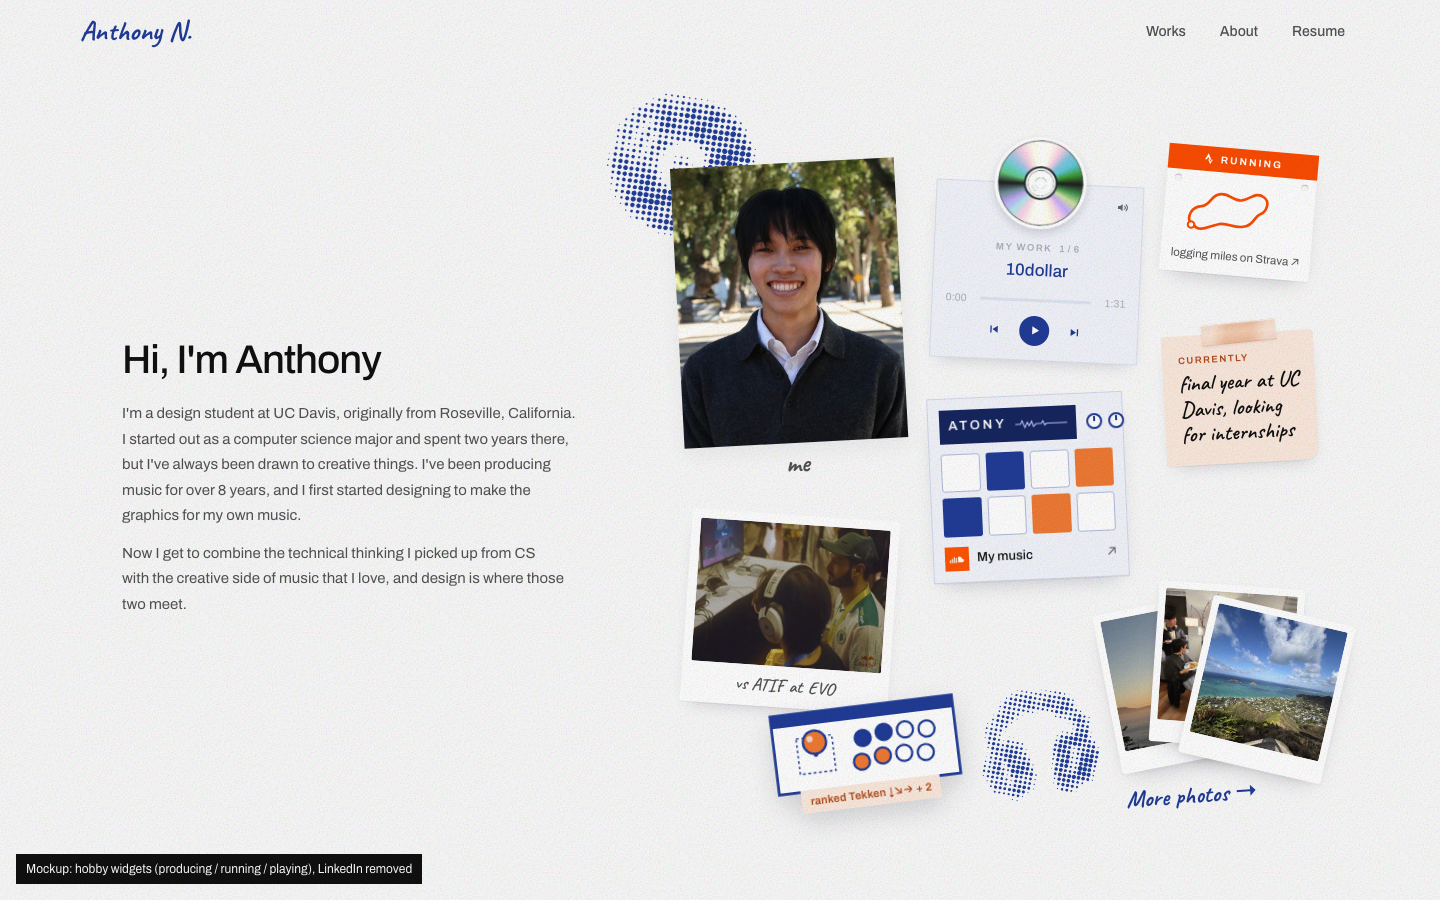
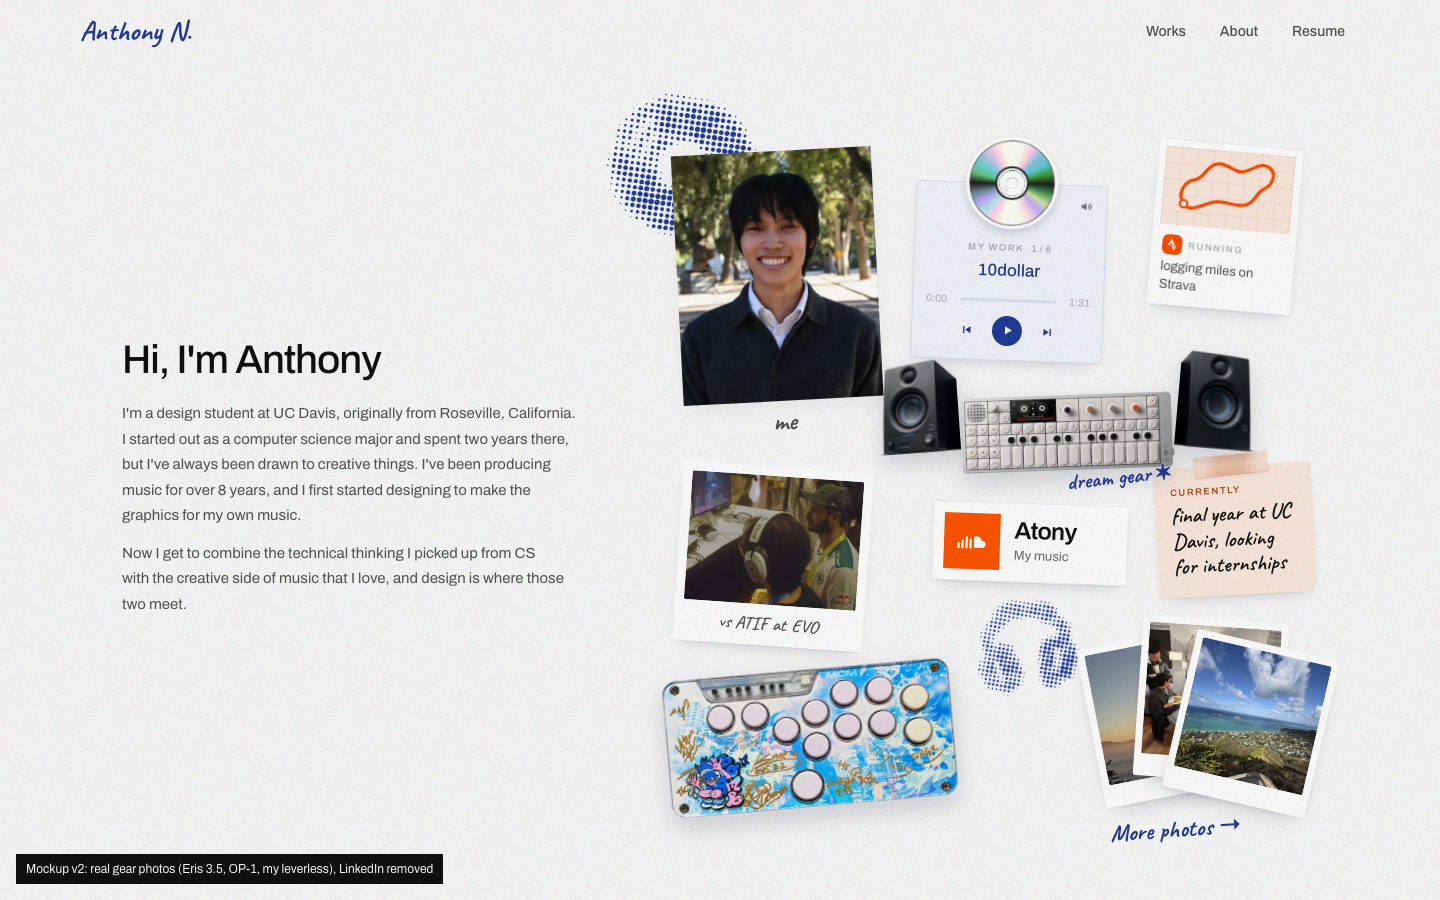
Mockup v2: real gear photos (Eris 3.5 monitors, OP-1, signed leverless cut out and flattened), LinkedIn removed, drawn widgets dropped

diff --git a/mockups/about-hobbies.html b/mockups/about-hobbies.html
@@ -20,7 +20,7 @@
   <link rel="preconnect" href="https://fonts.gstatic.com" crossorigin />
   <link href="https://fonts.googleapis.com/css2?family=Archivo:ital,wght@0,300..700;1,300..700&family=Caveat:wght@600;700&display=swap" rel="stylesheet" />
   <link rel="stylesheet" href="../assets/vendor/drawably/style.css?v=0.4.2" />
-  <link rel="stylesheet" href="../css/style.css?v=x196" />
+  <link rel="stylesheet" href="../css/style.css?v=x197" />
 </head>
 <body>
   <!-- ============ NAV ============ -->
@@ -59,15 +59,15 @@
         <div class="ab-board ab-board--main">
           <!-- decoration: halftone doodles made from the site's own graphics (tools/halftone.py) -->
           <img class="ab-deco" src="../assets/graphics/halftone-vinyl.webp" alt="" aria-hidden="true" style="left:-72px;top:-36px;width:152px;rotate:-10deg" />
-          <img class="ab-deco" src="../assets/graphics/halftone-headphones.webp" alt="" aria-hidden="true" style="left:300px;top:560px;width:120px;rotate:-8deg" />
+          <img class="ab-deco" src="../assets/graphics/halftone-headphones.webp" alt="" aria-hidden="true" style="left:296px;top:470px;width:104px;rotate:-8deg" />
 
-          <figure class="pg-it ab-it ab-it--me" style="left:0;top:36px;width:224px;rotate:-3deg">
+          <figure class="pg-it ab-it ab-it--me" style="left:0;top:24px;width:200px;rotate:-3deg">
             <img class="ab-photo" src="../assets/graphics/portrait-about-v2.webp" alt="Portrait of Anthony" width="800" height="1000" />
             <figcaption class="ab-photo__cap">me</figcaption>
           </figure>
 
           <!-- producing: home of the site-wide music player ("Music" in js/main.js) -->
-          <div class="pg-it ab-it ab-it--music" style="left:256px;top:0;width:208px;rotate:2.5deg">
+          <div class="pg-it ab-it ab-it--music" style="left:236px;top:0;width:192px;rotate:2deg">
             <div class="pg-sleeve" data-player>
               <span class="pg-disc"><img src="../assets/graphics/cd-disc.webp" alt="" loading="lazy" decoding="async" /></span>
               <span class="pg-lab" style="margin-bottom:6px">My work<span class="pg-count" data-mp-count>1 / 6</span></span>
@@ -96,9 +96,19 @@
             </div>
           </div>
 
+          <!-- running -->
+          <div class="pg-it ab-it ab-it--strava" style="left:474px;top:16px;width:146px;rotate:5deg">
+            <a class="pg-card ab-strava" href="https://www.strava.com/athletes/88987403" target="_blank" rel="noopener">
+              <span class="ab-strava__map" aria-hidden="true">
+                <svg viewBox="0 0 120 72"><path class="ab-strava__route" d="M20 52c-7-9-1-21 9-23 8-2 9-13 18-16 11-3 16 7 25 5 9-2 15-11 24-6 8 5 4 16-3 20-7 3-6 12-15 16-11 4-19-3-30 0-9 2-22 13-28 4z"/><circle class="ab-strava__start" cx="20" cy="52" r="3.5"/></svg>
+              </span>
+              <span class="ab-strava__row"><span class="ab-strava__mark"><svg viewBox="0 0 24 24" fill="currentColor" aria-hidden="true"><path d="M15.39 17.94l-2.09-4.12h-3.06L15.39 24l5.15-10.18h-3.07M10.24 0l-7 13.83h4.17l2.83-5.6 2.83 5.6h4.17z"/></svg></span><span class="pg-lab">Running</span></span>
+              <span class="ab-strava__t">logging miles on Strava</span>
+            </a>
+          </div>
 
           <!-- currently -->
-          <div class="pg-it ab-it ab-it--now" style="left:486px;top:206px;width:152px;rotate:-3deg">
+          <div class="pg-it ab-it ab-it--now" style="left:478px;top:338px;width:158px;rotate:-3deg">
             <div class="ab-note">
               <span class="pg-tape" style="left:41px;top:-11px;transform:rotate(-3deg)"></span>
               <span class="pg-lab">Currently</span>
@@ -107,8 +117,24 @@
           </div>
 
 
+          <!-- MOCKUP: the desk. My Eris 3.5 monitors either side of the OP-1 (dream gear) -->
+          <div class="pg-it ab-it ab-gear ab-gear--spk" style="left:198px;top:234px;width:82px;rotate:-4deg"><img src="../assets/graphics/hobbies/eris-3-5-left.webp" alt="PreSonus Eris 3.5 monitor" width="360" height="403" /></div>
+          <div class="pg-it ab-it ab-gear ab-gear--op1" style="left:284px;top:268px;width:212px;rotate:-2deg">
+            <img src="../assets/graphics/hobbies/op-1.webp" alt="Teenage Engineering OP-1" width="733" height="260" />
+            <span class="ab-gear__tag">dream gear ✶</span>
+          </div>
+          <div class="pg-it ab-it ab-gear ab-gear--spk" style="left:500px;top:226px;width:82px;rotate:5deg"><img src="../assets/graphics/hobbies/eris-3-5-right.webp" alt="" width="360" height="422" /></div>
+
+          <!-- producing, the name -->
+          <div class="pg-it ab-it ab-it--artist" style="left:254px;top:376px;width:196px;rotate:2deg">
+            <a class="pg-card pg-artist" href="https://soundcloud.com/atonyn" target="_blank" rel="noopener">
+              <span class="pg-artist__mark"><svg viewBox="0 0 24 24" fill="none" stroke="currentColor" stroke-width="1.7" stroke-linecap="round"><path d="M2 14v3M5 12v5M8 9.5v7.5M11 11v6"/><path d="M13.5 17V8.9c2.4-1.4 5.4 0 5.8 2.9 1.6-.4 3 .8 3 2.3 0 1.6-1.2 2.9-2.8 2.9h-6z" fill="currentColor" stroke="none"/></svg></span>
+              <span class="pg-artist__txt"><span class="pg-artist__name">Atony</span><span class="pg-artist__sub">My music</span></span>
+            </a>
+          </div>
+
           <!-- playing -->
-          <div class="pg-it ab-it ab-it--evo" style="left:8px;top:388px;width:208px;rotate:4deg">
+          <div class="pg-it ab-it ab-it--evo" style="left:0;top:340px;width:190px;rotate:4deg">
             <span class="pg-pol pg-pol--solo">
               <img src="../assets/graphics/tekken-evo.webp" alt="Playing Tekken 8 against ATIF at EVO" loading="lazy" decoding="async" />
               <span>vs ATIF at EVO</span>
@@ -117,47 +143,11 @@
 
 
 
-          <!-- MOCKUP: producing, a little sampler. The screen says ATONY, the pads light up,
-               and the SoundCloud button is the link (replaces the Atony card) -->
-          <div class="pg-it ab-it ab-it--mpc" style="left:252px;top:268px;width:196px;rotate:-2.5deg">
-            <a class="mpc" href="https://soundcloud.com/atonyn" target="_blank" rel="noopener">
-              <span class="mpc__top"><span class="mpc__screen"><b>ATONY</b><svg viewBox="0 0 60 12" aria-hidden="true"><path d="M0 6h6l2-4 3 8 3-6 2 4 3-5 2 6 3-3h6l2-3 2 5 2-2h24" fill="none" stroke="currentColor" stroke-width="1.3"/></svg></span><span class="mpc__knobs"><i></i><i></i></span></span>
-              <span class="mpc__pads"><i></i><i class="is-b"></i><i></i><i class="is-o"></i><i class="is-b"></i><i></i><i class="is-o"></i><i></i></span>
-              <span class="mpc__sc"><span class="mpc__scmark"><svg viewBox="0 0 24 24" fill="none" stroke="currentColor" stroke-width="1.7" stroke-linecap="round" aria-hidden="true"><path d="M2 14v3M5 12v5M8 9.5v7.5M11 11v6"/><path d="M13.5 17V8.9c2.4-1.4 5.4 0 5.8 2.9 1.6-.4 3 .8 3 2.3 0 1.6-1.2 2.9-2.8 2.9h-6z" fill="currentColor" stroke="none"/></svg></span>My music<span class="mpc__go">↗</span></span>
-            </a>
-          </div>
-
-          <!-- MOCKUP: running, a race bib pinned up, with the route on it (replaces the Strava card) -->
-          <div class="pg-it ab-it ab-it--bib" style="left:486px;top:22px;width:150px;rotate:5deg">
-            <a class="bib" href="https://www.strava.com/athletes/88987403" target="_blank" rel="noopener">
-              <i class="bib__hole bib__hole--l"></i><i class="bib__hole bib__hole--r"></i>
-              <span class="bib__band"><span class="bib__mark"><svg viewBox="0 0 24 24" fill="currentColor" aria-hidden="true"><path d="M15.39 17.94l-2.09-4.12h-3.06L15.39 24l5.15-10.18h-3.07M10.24 0l-7 13.83h4.17l2.83-5.6 2.83 5.6h4.17z"/></svg></span>RUNNING</span>
-              <svg class="bib__route" viewBox="0 0 120 56" aria-hidden="true"><path d="M14 40c-6-8 0-18 9-19 8-1 8-11 16-13 10-3 14 6 23 4 8-2 13-10 21-5 7 4 4 14-2 17-6 3-5 10-13 13-10 4-17-2-26 0-8 2-20 11-25 3z" fill="none" stroke="currentColor" stroke-width="2.6" stroke-linecap="round" stroke-linejoin="round"/><circle cx="14" cy="40" r="3.2" fill="#fff" stroke="currentColor" stroke-width="2"/></svg>
-              <span class="bib__t">logging miles on Strava ↗</span>
-            </a>
-          </div>
-
-          <!-- MOCKUP: playing, an arcade fight stick tucked against the EVO photo -->
-          <div class="pg-it ab-it ab-it--stick" style="left:92px;top:566px;width:190px;rotate:-7deg">
-            <span class="stick">
-              <svg viewBox="0 0 212 110" aria-hidden="true">
-                <rect x="4" y="14" width="204" height="88" fill="#fff" stroke="currentColor" stroke-width="3"/>
-                <rect x="4" y="14" width="204" height="14" fill="currentColor"/>
-                <rect x="30" y="42" width="40" height="40" fill="none" stroke="currentColor" stroke-width="1.6" stroke-dasharray="3 3"/>
-                <line x1="50" y1="62" x2="50" y2="50" stroke="currentColor" stroke-width="5" stroke-linecap="round"/>
-                <circle cx="50" cy="48" r="13" fill="#ef7a34" stroke="currentColor" stroke-width="2.5"/>
-                <circle cx="45" cy="44" r="3.5" fill="#fff" opacity=".7"/>
-                <g stroke="currentColor" stroke-width="2.5">
-                  <circle cx="104" cy="50" r="9" fill="currentColor"/><circle cx="128" cy="46" r="9" fill="currentColor"/><circle cx="152" cy="46" r="9" fill="#fff"/><circle cx="176" cy="48" r="9" fill="#fff"/>
-                  <circle cx="100" cy="76" r="9" fill="#ef7a34"/><circle cx="124" cy="72" r="9" fill="#ef7a34"/><circle cx="148" cy="72" r="9" fill="#fff"/><circle cx="172" cy="74" r="9" fill="#fff"/>
-                </g>
-              </svg>
-              <span class="stick__tag">ranked Tekken ↓↘→ + 2</span>
-            </span>
-          </div>
+          <!-- MOCKUP: my leverless controller, under the EVO photo -->
+          <div class="pg-it ab-it ab-gear ab-gear--stick" style="left:-14px;top:540px;width:292px;rotate:-5deg"><img src="../assets/graphics/hobbies/leverless.webp" alt="My signed leverless fight stick" width="900" height="439" /></div>
 
           <!-- opens the photo gallery -->
-          <div class="pg-it ab-it ab-it--stack" style="left:420px;top:452px">
+          <div class="pg-it ab-it ab-it--stack" style="left:404px;top:486px">
             <button class="ab-stack ab-stack--open" type="button" data-gallery-open aria-controls="playground" aria-label="Open the photo gallery">
               <span class="ab-stack__ph" aria-hidden="true"><img src="../assets/graphics/about-photos/p22.webp?v=2" alt="" /></span>
               <span class="ab-stack__ph" aria-hidden="true"><img src="../assets/graphics/about-photos/p03.webp?v=2" alt="" /></span>
@@ -182,6 +172,7 @@
         </button>
 
         <!-- photo mode controls, either side of the docked wallet -->
+        <p class="ab-gallery__hint" aria-hidden="true">Swipe with two fingers to look around</p>
         <button class="pg-arrange pg-arrange--sort" type="button" data-arrange="sort" aria-pressed="false">
           <svg viewBox="0 0 24 24" fill="none" stroke="currentColor" stroke-width="1.8" stroke-linejoin="round" aria-hidden="true"><rect x="3.5" y="3.5" width="7" height="7" rx="1.6"/><rect x="13.5" y="3.5" width="7" height="7" rx="1.6"/><rect x="3.5" y="13.5" width="7" height="7" rx="1.6"/><rect x="13.5" y="13.5" width="7" height="7" rx="1.6"/></svg>
           <span>Sort</span>
@@ -265,50 +256,15 @@
   </footer>
 
   
+
 <style>
-/* ===== MOCKUP ONLY: hobby widgets (move into style.css once approved) ===== */
+/* ===== MOCKUP ONLY (move into style.css once approved) ===== */
 .mock-note { position: fixed; left: 16px; bottom: 16px; z-index: 300; background: var(--ink); color: #fff; font-size: 12px; padding: 6px 10px; }
-/* producing: the sampler */
-.ab-it .mpc { color: var(--blue); }
-.mpc { display: block; background: var(--blue-mist); padding: 12px; color: var(--blue);
-  outline: 1px solid rgba(33,60,151,.14); outline-offset: -1px; box-shadow: 0 1px 0 rgba(16,16,40,.05), 0 10px 22px -12px rgba(16,16,40,.28); }
-.mpc__top { display: flex; align-items: center; gap: 10px; }
-.mpc__screen { flex: 1; display: flex; align-items: center; justify-content: space-between; gap: 8px; padding: 7px 9px;
-  background: var(--blue-ink); color: #b9c6f5; }
-.mpc__screen b { font-size: 13px; font-weight: 600; letter-spacing: .22em; color: #fff; }
-.mpc__screen svg { width: 52px; height: 12px; }
-.mpc__knobs { display: flex; gap: 6px; }
-.mpc__knobs i { width: 16px; height: 16px; border-radius: 50%; border: 2px solid var(--blue); background: #fff; position: relative; }
-.mpc__knobs i::after { content: ""; position: absolute; left: 50%; top: 1px; width: 2px; height: 5px; margin-left: -1px; background: var(--blue); }
-.mpc__pads { display: grid; grid-template-columns: repeat(4, 1fr); gap: 6px; margin-top: 10px; }
-.mpc__pads i { border-radius: 3px; }
-.mpc__pads i { aspect-ratio: 1; background: #fff; outline: 1.5px solid rgba(33,60,151,.35); outline-offset: -1.5px; }
-.mpc__pads i.is-b { background: var(--blue); outline-color: var(--blue); }
-.mpc__pads i.is-o { background: var(--orange-hi); outline-color: var(--orange-hi); }
-.mpc__sc { display: flex; align-items: center; gap: 8px; margin-top: 10px; font-size: 13px; font-weight: 500; color: var(--ink); }
-.mpc__scmark { display: grid; place-items: center; width: 24px; height: 24px; background: #ff5500; color: #fff; }
-.mpc__scmark svg { width: 16px; height: 16px; }
-.mpc__go { margin-left: auto; color: var(--ink-50); }
-/* running: the race bib */
-.ab-it .bib { color: #fc4c02; }
-.bib { position: relative; display: block; background: #fff; padding: 0 0 10px; color: #fc4c02;
-  box-shadow: 0 1px 0 rgba(16,16,40,.05), 0 10px 22px -12px rgba(16,16,40,.28); }
-/* the punched holes a bib is pinned through */
-.bib__hole { position: absolute; top: 30px; width: 7px; height: 7px; border-radius: 50%; background: var(--bg);
-  box-shadow: inset 0 1px 1px rgba(16,16,40,.25); }
-.bib__hole--l { left: 8px; } .bib__hole--r { right: 8px; }
-.bib__band { display: flex; align-items: center; justify-content: center; gap: 6px; padding: 5px 0; background: #fc4c02;
-  color: #fff; font-size: 10px; font-weight: 700; letter-spacing: .2em; }
-.bib__mark svg { display: block; width: 11px; height: 11px; }
-.bib__route { display: block; width: 100%; height: auto; padding: 14px 14px 4px; }
-.bib__t { display: block; text-align: center; font-size: 11.5px; color: var(--ink-75); }
-/* playing: the fight stick */
-.stick { position: relative; display: block; color: var(--blue); filter: drop-shadow(0 10px 12px rgba(16,16,40,.16)); }
-.stick svg { display: block; width: 100%; height: auto; }
-.stick__tag { position: absolute; left: 50%; bottom: -14px; translate: -50% 0; white-space: nowrap; padding: 3px 9px;
-  background: var(--orange-soft); color: var(--orange); font-size: 11px; font-weight: 600; letter-spacing: .02em; }
+.ab-gear img { display: block; width: 100%; height: auto; filter: drop-shadow(0 10px 12px rgba(16,16,40,.18)); }
+.ab-gear__tag { position: absolute; right: 4px; bottom: -26px; font-family: var(--hand); font-size: 22px; font-weight: 700;
+  color: var(--blue); rotate: -4deg; white-space: nowrap; }
 </style>
-<div class="mock-note">Mockup: hobby widgets (producing / running / playing), LinkedIn removed</div>
+<div class="mock-note">Mockup v2: real gear photos (Eris 3.5, OP-1, my leverless), LinkedIn removed</div>
 
 </body>
 </html>

diff --git a/tools/mk-about-hobbies-mockup.py b/tools/mk-about-hobbies-mockup.py
@@ -1,0 +1,56 @@
+import re
+s=open('about.html',encoding='utf-8').read()
+s=re.sub(r'(src|href)="(?!https?:|mailto:|#|\.\./)([^"]+)"', lambda m: m.group(1)+'="../'+m.group(2)+'"', s)
+s=re.sub(r'\s*<!-- GSAP \+ ScrollTrigger.*?</script>\s*<script src="https://cdnjs[^>]*></script>\s*<script src="\.\./js/main\.js[^>]*></script>','',s,flags=re.S)
+s=re.sub(r'<script src="\.\./assets/vendor/drawably/drawably\.classic\.js[^>]*></script>','',s)
+a=s.index('        <div class="ab-comms">'); b=s.index('      </div>\n    </section>',a)
+s=s[:a]+s[b:]
+# LinkedIn goes
+st=s.index('<div class="pg-it ab-it ab-it--apps"'); i=s.rfind('\n',0,st); j=s.rfind('\n',0,i)
+if '<!--' in s[j:i]: i=j
+k=s.index('\n          </div>\n',st)+len('\n          </div>\n'); s=s[:i]+'\n'+s[k:]
+POS={
+ 'ab-it--me':     'left:0;top:24px;width:200px;rotate:-3deg',
+ 'ab-it--music':  'left:236px;top:0;width:192px;rotate:2deg',
+ 'ab-it--strava': 'left:474px;top:16px;width:146px;rotate:5deg',
+ 'ab-it--now':    'left:478px;top:338px;width:158px;rotate:-3deg',
+ 'ab-it--artist': 'left:254px;top:376px;width:196px;rotate:2deg',
+ 'ab-it--evo':    'left:0;top:340px;width:190px;rotate:4deg',
+ 'ab-it--stack':  'left:404px;top:486px',
+}
+for cls,style in POS.items():
+    s,n=re.subn(r'(class="pg-it ab-it '+cls+r'" style=")[^"]*(")', lambda m: m.group(1)+style+m.group(2), s); assert n==1, cls
+s=s.replace('style="left:-72px;top:-36px;width:152px;rotate:-10deg"','style="left:-72px;top:-36px;width:152px;rotate:-10deg"')
+s=s.replace('style="left:452px;top:536px;width:184px;rotate:8deg"','style="left:296px;top:470px;width:104px;rotate:-8deg"')
+G='../assets/graphics/hobbies/'
+gear='''
+          <!-- MOCKUP: the desk. My Eris 3.5 monitors either side of the OP-1 (dream gear) -->
+          <div class="pg-it ab-it ab-gear ab-gear--spk" style="left:198px;top:234px;width:82px;rotate:-4deg"><img src="'''+G+'''eris-3-5-left.webp" alt="PreSonus Eris 3.5 monitor" width="360" height="403" /></div>
+          <div class="pg-it ab-it ab-gear ab-gear--op1" style="left:284px;top:268px;width:212px;rotate:-2deg">
+            <img src="'''+G+'''op-1.webp" alt="Teenage Engineering OP-1" width="733" height="260" />
+            <span class="ab-gear__tag">dream gear ✶</span>
+          </div>
+          <div class="pg-it ab-it ab-gear ab-gear--spk" style="left:500px;top:226px;width:82px;rotate:5deg"><img src="'''+G+'''eris-3-5-right.webp" alt="" width="360" height="422" /></div>
+'''
+anchor='          <!-- producing, the name -->'
+assert anchor in s; s=s.replace(anchor,gear+'\n'+anchor,1)
+stick='''
+          <!-- MOCKUP: my leverless controller, under the EVO photo -->
+          <div class="pg-it ab-it ab-gear ab-gear--stick" style="left:-14px;top:540px;width:292px;rotate:-5deg"><img src="'''+G+'''leverless.webp" alt="My signed leverless fight stick" width="900" height="439" /></div>
+'''
+anchor='          <!-- opens the photo gallery -->'
+assert anchor in s; s=s.replace(anchor,stick+'\n'+anchor,1)
+css='''
+<style>
+/* ===== MOCKUP ONLY (move into style.css once approved) ===== */
+.mock-note { position: fixed; left: 16px; bottom: 16px; z-index: 300; background: var(--ink); color: #fff; font-size: 12px; padding: 6px 10px; }
+.ab-gear img { display: block; width: 100%; height: auto; filter: drop-shadow(0 10px 12px rgba(16,16,40,.18)); }
+.ab-gear__tag { position: absolute; right: 4px; bottom: -26px; font-family: var(--hand); font-size: 22px; font-weight: 700;
+  color: var(--blue); rotate: -4deg; white-space: nowrap; }
+</style>
+<div class="mock-note">Mockup v2: real gear photos (Eris 3.5, OP-1, my leverless), LinkedIn removed</div>
+'''
+s=s.replace('</body>', css+'\n</body>',1)
+s=s.replace('<title>Anthony Nguyen -- Portfolio</title>','<title>About Hobby Widgets Mockup</title>')
+open('mockups/about-hobbies.html','w',encoding='utf-8').write(s)
+print('ok')
